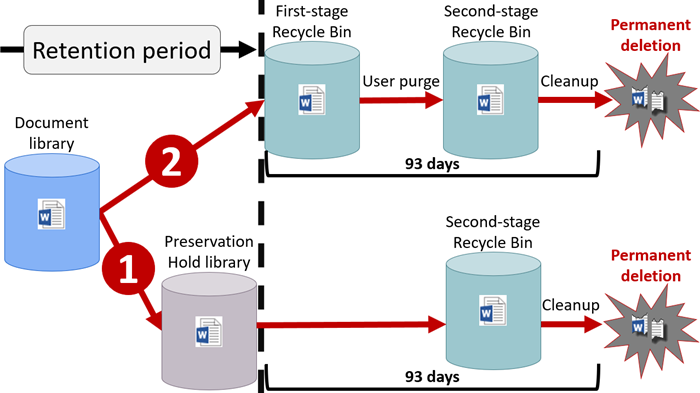
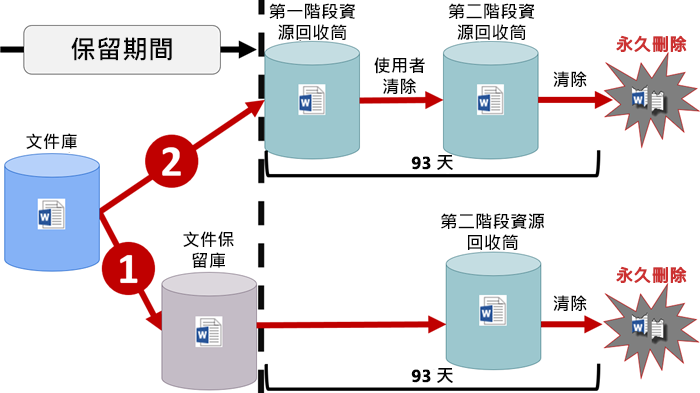
commit translated contents

diff --git a/SecurityCompliance/search-for-and-delete-messages-in-your-organization.md b/SecurityCompliance/search-for-and-delete-messages-in-your-organization.md
@@ -1,12 +1,12 @@
 ---
-title: 搜尋並刪除 Office 365 組織的系統管理說明中的電子郵件
+title: 搜尋並刪除 Office 365 組織中的電子郵件 - 系統管理說明
 ms.author: markjjo
 author: markjjo
 manager: laurawi
 audience: Admin
 ms.topic: article
 ms.service: O365-seccomp
-localization_priority: Normal
+localization_priority: Priority
 ms.collection:
 - Strat_O365_IP
 - M365-security-compliance
@@ -14,44 +14,44 @@ search.appverid:
 - MOE150
 - MET150
 ms.assetid: 3526fd06-b45f-445b-aed4-5ebd37b3762a
-description: 使用搜尋及清除安全性 & 來搜尋並刪除貴組織中的所有信箱的電子郵件訊息的 Office 365 規範中心中的功能。
-ms.openlocfilehash: f654b643a5f1e4feac6e32a67843b2a6a9563bd0
-ms.sourcegitcommit: 9d67cb52544321a430343d39eb336112c1a11d35
-ms.translationtype: MT
+description: 使用 Office365 中之安全性與合規性中心的搜尋和清除功能，可搜尋並刪除組織中所有信箱的電子郵件。
+ms.openlocfilehash: 318a7deeedb6bd4875a7a2ca0f5e33b764bdbac3
+ms.sourcegitcommit: 33c8e9c16143650ca443d73e91631f9180a9268e
+ms.translationtype: HT
 ms.contentlocale: zh-TW
-ms.lasthandoff: 05/17/2019
-ms.locfileid: "34158475"
+ms.lasthandoff: 07/25/2019
+ms.locfileid: "35854627"
 ---
-# <a name="search-for-and-delete-email-messages-in-your-office-365-organization---admin-help"></a>搜尋並刪除 Office 365 組織的系統管理說明中的電子郵件
+# <a name="search-for-and-delete-email-messages-in-your-office-365-organization---admin-help"></a>搜尋並刪除 Office 365 組織中的電子郵件 - 系統管理說明
 
-**本文適用於系統管理員。您試圖尋找您想要刪除的信箱中的項目？請參閱[尋找郵件或在使用立即搜尋的項目](https://support.office.com/article/69748862-5976-47b9-98e8-ed179f1b9e4d)**|
+**本文適用於系統管理員。您正嘗試在信箱中尋找要刪除的項目嗎？請參閱[使用立即搜尋尋找郵件或項目](https://support.office.com/article/69748862-5976-47b9-98e8-ed179f1b9e4d)**|
    
-您可以使用 Office 365 中的 「 內容搜尋 」 功能來搜尋並刪除所有的信箱中的電子郵件訊息，您組織中。 這可協助您尋找並移除可能有害或高風險的電子郵件，例如：
+您可以使用 Office365 中的內容搜尋功能來搜尋並刪除組織中所有信箱的電子郵件。 這可幫助您找出並移除可能有害或高風險的電子郵件，例如：
   
-- 包含危險附件或病毒的郵件
+- 含有危險附件或病毒的郵件
     
 - 網路釣魚郵件
     
 - 包含敏感資料的郵件
     
 > [!CAUTION]
-> 搜尋及清除是一個強大的功能，可讓任何人都被指派來自您組織中的信箱刪除電子郵件訊息的必要權限。 
+> 搜尋和清除是一個強大的功能，可讓獲指派必要權限的任何人刪除組織信箱的電子郵件。 
   
 ## <a name="before-you-begin"></a>開始之前
 
-- 若要建立並執行內容搜尋，您必須是 「 **eDiscovery 管理員**」 角色群組的成員，或被指派 「**符合性搜尋**管理 」 角色。 若要刪除的郵件，您必須是 「**組織管理**」 角色群組的成員，或是獲指派 「**搜尋及清除**的管理角色。 如需將使用者新增至角色群組的詳細資訊，請參閱[讓使用者能夠存取安全性與合規性中心](grant-access-to-the-security-and-compliance-center.md)。
+- 若要建立和執行內容搜尋，您必須是「eDiscovery 管理員」**** 角色群組的成員，或者獲指派「合規性搜尋」**** 管理角色。 若要刪除郵件，您必須是「組織管理」**** 角色群組的成員，或者獲指派「搜尋及清除」**** 管理角色。 如需新增使用者至角色群組的詳細資訊，請參閱[讓使用者能夠存取 Office 365 安全性與合規性中心](grant-access-to-the-security-and-compliance-center.md) (機器翻譯)。
     
-- 您必須使用安全性 & 合規性中心 PowerShell 來刪除郵件。 如需如何連線指示，請參閱[步驟 2](#step-2-connect-to-security--compliance-center-powershell) 。
+- 您必須使用安全性與合規性中心 PowerShell 來刪除郵件。 如需如何連線的相關指示，請參閱[步驟 2](#step-2-connect-to-security--compliance-center-powershell)。
     
-- 每個信箱的 10 個項目最多可以一次移除。 因為搜尋和移除郵件的功能應該是事件回應工具，此限制可以協助確保從信箱快速移除郵件。 這項功能不是用來清除使用者信箱。 若要刪除超過 10 個項目，您可以在 Exchange Online PowerShell 中使用**Search-mailbox DeleteContent**命令。 請參閱[搜尋並刪除郵件-系統管理說明](search-for-and-delete-messagesadmin-help.md)。
+- 每個信箱一次可以移除最多 10 個項目。 因為搜尋和移除郵件的功能應該是事件回應工具，此限制可以協助確保從信箱快速移除郵件。 這項功能不是用來清除使用者信箱。 若要刪除超過 10 個項目，您可以使用 Exchange Online PowerShell 中的 **Search-Mailbox -DeleteContent** 命令。 請參閱[搜尋並刪除郵件 - 系統管理說明](search-for-and-delete-messagesadmin-help.md)。
     
-- 您可以用來執行搜尋刪除的項目，並清除巨集指令在內容搜尋的信箱數目上限為 50000。 如果內容搜尋 （您在[步驟 1](#step-1-create-a-content-search-to-find-the-message-to-delete)中建立） 有超過 50000 個來源信箱，將會失敗的清除動作 （您在步驟 3 中建立）。 請參閱上執行搜尋祕訣[的詳細資訊](#more-information)一節，並清除超過 50000 個信箱上的作業。 
+- 透過搜尋和清除動作，您最多可以在內容搜尋刪除 50,000 個信箱內的項目。 如果內容搜尋 (您在[步驟 1 ](#step-1-create-a-content-search-to-find-the-message-to-delete)中建立) 中有超過 50,000 個來源信箱，則您在步驟 3 中建立的清除動作將失敗。 請參閱[詳細資訊](#more-information)章節以取得搜尋並清除超過 50,000 個信箱的執行提示。 
     
-- 本文中的程序只可以用來刪除 Exchange Online 信箱和公用資料夾中的項目。 您無法使用它來刪除內容從 SharePoint 或 OneDrive for Business 網站。
+- 本文所述的程序只能用於刪除 Exchange Online 信箱和公用資料夾中的項目。 您無法使用這個程序來刪除 SharePoint 或商務用 OneDrive 上的內容。
     
 ## <a name="step-1-create-a-content-search-to-find-the-message-to-delete"></a>步驟 1：建立內容搜尋來尋找要刪除的郵件
 
-第一個步驟是建立和執行內容搜尋，以尋找您想要從組織中的信箱移除的郵件。 使用安全性 & 合規性中心，或執行**New-compliancesearch**和**Start-compliancesearch** cmdlet，您可以建立搜尋。 針對此搜尋將會執行刪除符合查詢的郵件**New-compliancesearchaction-清除**命令在[步驟 3](#step-3-delete-the-message)。 如需建立內容搜尋和設定搜尋查詢的詳細資訊，請參閱下列主題： 
+第一個步驟是建立和執行內容搜尋，以尋找您想要從組織中的信箱移除的郵件。 您可以使用安全性與合規性中心或執行 **New-ComplianceSearch** 以及 **Start-ComplianceSearch** Cmdlet 來建立搜尋。 藉由在[步驟 3](#step-3-delete-the-message) 中執行 **New-ComplianceSearchAction -Purge** 命令，會刪除符合此搜尋查詢的郵件。 如需如何建立內容搜尋及設定搜尋查詢的資訊，請參閱下列主題： 
   
 - [Office 365 中的內容搜尋](content-search.md)
     
@@ -62,9 +62,9 @@ ms.locfileid: "34158475"
 - [Start-ComplianceSearch](https://docs.microsoft.com/powershell/module/exchange/policy-and-compliance-content-search/Start-ComplianceSearch)
     
 > [!NOTE]
-> 您在此步驟中建立內容搜尋中搜尋的內容位置不能包含 SharePoint 或 OneDrive for Business 網站。 您可以將用於電子郵件的內容搜尋中包含僅信箱與公用資料夾。 如果內容搜尋中包含的網站，您會收到錯誤，在步驟 3 中執行**New-compliancesearchaction** cmdlet 時即可。 
+> 在此步驟中建立的內容搜尋，其搜尋的內容位置不能包含 SharePoint 或商務用 OneDrive 網站。 您只能在內容搜尋中包含將用於電子郵件的信箱和公用資料夾。 如果內容搜尋包含網站，則在步驟 3 中執行 **New-ComplianceSearchAction ** Cmdlet 時會收到錯誤。 
   
-### <a name="tips-for-finding-messages-to-remove"></a>尋找要移除的郵件的提示
+### <a name="tips-for-finding-messages-to-remove"></a>尋找要移除郵件的提示
 
 搜尋查詢的目標是將搜尋結果縮減為只有您想要移除的郵件。以下是一些提示：
   
@@ -76,7 +76,7 @@ ms.locfileid: "34158475"
     
 - 預覽搜尋結果，以確認內容搜尋僅傳回您想要刪除的郵件。
     
-- 使用搜尋預估統計資料 （顯示於詳細資料窗格的搜尋] 安全性 & 合規性中心或使用[Get-compliancesearch](https://go.microsoft.com/fwlink/p/?LinkId=517934) cmdlet） 來取得結果的總計數。 
+- 使用搜尋預估統計資料 (在安全性與合規性中心的搜尋詳細資料窗格中顯示，或使用 [Get-ComplianceSearch](https://go.microsoft.com/fwlink/p/?LinkId=517934) Cmdlet) 以取得結果總數。 
     
 以下是尋找可疑電子郵件訊息的兩個查詢範例。
   
@@ -92,56 +92,56 @@ ms.locfileid: "34158475"
     (From:chatsuwloginsset12345@outlook.com) AND (Subject:"Update your account information")
     ```
 
-## <a name="step-2-connect-to-security--compliance-center-powershell"></a>步驟 2： 連線到安全性 & 合規性中心 PowerShell
+## <a name="step-2-connect-to-security--compliance-center-powershell"></a>步驟 2︰連線至安全性與合規性中心 PowerShell
 
-下一步是連線至您的組織的安全性 & 合規性中心 PowerShell。 如需逐步指示，請參閱[連線到安全性 & 合規性中心 PowerShell](https://docs.microsoft.com/powershell/exchange/office-365-scc/connect-to-scc-powershell/connect-to-scc-powershell)。
+下一步是將組織連線至安全性與合規性中心 PowerShell。 如需逐步指示，請參閱[連線至安全性與合規性中心 PowerShell](https://docs.microsoft.com/powershell/exchange/office-365-scc/connect-to-scc-powershell/connect-to-scc-powershell)。
   
-如果您的 Office 365 帳戶使用多重要素驗證 (MFA)，或同盟驗證，您無法使用上一個主題上連接到安全性 & 合規性中心 PowerShell 中的指示。 相反地，請參閱主題中的 <<c0>連接到安全性 &amp; 合規性中心 PowerShell 中使用多重要素驗證的指示。
+如果您的 Office 365 帳戶使用多重要素驗證 (MFA) 或同盟驗證，您就無法使用前個主題中的指示來連線至安全性與合規性中心 PowerShell。 您應改為參閱[使用多重要素驗證連線至安全性與合規性中心 PowerShell](https://docs.microsoft.com/powershell/exchange/office-365-scc/connect-to-scc-powershell/mfa-connect-to-scc-powershell) (機器翻譯) 中的指示。
   
-## <a name="step-3-delete-the-message"></a>步驟 3： 刪除郵件
+## <a name="step-3-delete-the-message"></a>步驟 3：刪除郵件
 
-您已建立並精簡內容搜尋來傳回的訊息，您想要移除，並且連線到安全性 & 合規性中心 PowerShell 之後，最後一個步驟是執行**New-compliancesearchaction** cmdlet 來刪除郵件。 您可以虛-或實刪除郵件。 虛刪除的郵件會移至使用者的 [可復原的項目] 資料夾，並保留已刪除的項目保留期間到期之前。 實刪除的郵件標示為永久移除信箱，並將會永久移除受管理的資料夾助理員處理信箱時的下一個時間。 如果信箱已啟用單一項目復原，已刪除的項目保留期間到期後，將會永久移除實刪除的項目。 如果信箱處於保留狀態，已刪除的郵件會保留直到項目的保留期間到期或從信箱移除保留為止。
+在您建立內容搜尋並進行調整以傳回您想要移除的郵件，並且連線至安全性與合規性 PowerShell 之後，最後一步是執行 **New-ComplianceSearchAction** Cmdlet 來刪除郵件。 您可以虛刪除或實刪除郵件。 虛刪除的郵件會移至使用者的 [可復原的項目] 資料夾並保留，直到刪除項目的保留期限到期為止。 實刪除的郵件則會在信箱中標示為永久移除，並在受管理的資料夾助理員下次處理信箱時將其永久移除。 如果信箱啟用了單一項目復原，則會在刪除項目的保留期限到期後，永久刪除實刪除的項目。 如果信箱處於保留狀態，則會保留已刪除的郵件，直到該郵件的保留期限到期或從信箱移除保留為止。
   
-在下列範例中，命令將虛刪除名為 「 移除網路釣魚郵件 」 的內容搜尋所傳回的搜尋結果。 
+在下列範例中，命令將會虛刪除名為「移除網路釣魚郵件」的內容搜尋所傳回的搜尋結果。 
 
 ```
 New-ComplianceSearchAction -SearchName "Remove Phishing Message" -Purge -PurgeType SoftDelete
 ```
 
-若要實刪除 「 移除網路釣魚郵件 」 的內容搜尋所傳回的項目，您會執行此命令：
+若要實刪除「移除網路釣魚郵件」內容搜尋所傳回的項目，您可以執行下列命令：
 
 ```
 New-ComplianceSearchAction -SearchName "Remove Phishing Message" -Purge -PurgeType HardDelete
 ```
 
-請注意，當您執行上述命令虛-或實刪除的郵件， *SearchName*參數所指定的搜尋您在步驟 1 中建立內容搜尋。 
+請注意，當您執行上述命令來虛刪除或實刪除郵件時，*SearchName* 參數指定的搜尋是您在步驟 1 建立的內容搜尋。 
   
-如需詳細資訊，請參閱 < <b0>New-compliancesearchaction</b0>。
+如需詳細資訊，請參閱 [New-ComplianceSearchAction](https://docs.microsoft.com/powershell/module/exchange/policy-and-compliance-content-search/New-ComplianceSearchAction)。
 
 ## <a name="more-information"></a>詳細資訊
 
-- **您該如何取得搜尋狀態和移除作業？**
+- **如何取得搜尋和移除作業的狀態？**
 
-    執行 **Get-ComplianceSearchAction** 以取得刪除作業的狀態。 請注意，當您執行**New-compliancesearchaction** cmdlet 時建立的物件名為使用此格式： `<name of Content Search>_Purge`。 
+    執行 **Get-ComplianceSearchAction** 可取得刪除作業的狀態。 請注意，當您執行 **New-ComplianceSearchAction** Cmdlet 時所建立的物件會使用下列格式命名：`<name of Content Search>_Purge`。 
     
-- **刪除郵件之後會發生什麼事？**
+- **刪除郵件後，會發生什麼情況？**
 
-   與已刪除的郵件`New-ComplianceSearchAction -Purge -PurgeType HardDelete`命令移至 [清除] 資料夾，並無法供使用者存取。 將郵件移至 [清除] 資料夾之後，郵件會保留已刪除的項目保留期間的持續期間，如果信箱已啟用單一項目復原。 （在 Office 365 中，單一項目復原是預設啟用時建立新的信箱。）已刪除的項目保留期間到期之後，郵件會標示為永久刪除，並會從 Office 365 清除受管理的資料夾助理員處理信箱時的下一個時間。 
+   使用 `New-ComplianceSearchAction -Purge -PurgeType HardDelete` 命令刪除的郵件將被移至 [清除] 資料夾，且使用者無法再存取此郵件。 郵件移至 [清除] 資料夾後，如果已針對信箱啟用單一項目復原，則會根據刪除項目的保留期限來保留郵件。 (在 Office 365 中，建立新信箱時即會預設啟用單一項目復原。) 刪除項目的保留期限到期後，郵件將標示為永久刪除，並在受管理的資料夾助理員下次處理信箱時將其從 Office 365 永久清除。 
 
-   如果您使用`New-ComplianceSearchAction -Purge -PurgeType SoftDelete`命令，郵件會移至使用者的 [可復原的項目] 資料夾中的 [刪除] 資料夾。 它不是立即清除從 Office 365。 使用者可以根據為信箱設定的刪除項目保留期間，在持續時間之內復原 [刪除的郵件] 資料夾中的郵件。 此保留期間到期 (或者如果使用者在到期之前清除郵件) 之後，郵件會移至 [清除] 資料夾且使用者無法再存取。 一次中 [清除] 資料夾中，郵件會保留期間根據對信箱設定，如果信箱已啟用單一項目復原已刪除的項目保留期間。 （在 Office 365 中，單一項目復原是預設啟用時建立新的信箱。）已刪除的項目保留期間到期之後，郵件會標示為永久刪除，並會從 Office 365 清除受管理的資料夾助理員處理信箱時的下一個時間。 
+   如果您使用 `New-ComplianceSearchAction -Purge -PurgeType SoftDelete` 命令，郵件會移至使用者 [可復原的項目] 資料夾中的 [刪除] 資料夾。 它不會立即從 Office365 中清除。 使用者可以根據為信箱設定的刪除項目保留期間，在持續時間之內復原 [刪除的郵件] 資料夾中的郵件。 此保留期間到期 (或者如果使用者在到期之前清除郵件) 之後，郵件會移至 [清除] 資料夾且使用者無法再存取。 郵件位在 [清除] 資料夾後，如果已針對信箱啟用單一項目復原，則會根據為信箱設定的刪除項目的保留期限來保留郵件。 (在 Office 365 中，建立新信箱時即會預設啟用單一項目復原。) 刪除項目的保留期限到期後，郵件將標示為永久刪除，並在受管理的資料夾助理員下次處理信箱時將其從 Office 365 永久清除。 
     
-- **如果您有超過 50000 個信箱刪除郵件？**
+- **如果要從 50,000 個以上的信箱刪除郵件，該怎麼辦？**
 
-    如先前所述，您可以執行搜尋，並清除作業最多 50000 個信箱。 如果您必須執行搜尋及清除超過 50000 個信箱上的作業，請考慮建立暫存的搜尋權限篩選器，會降低會搜尋以少於 50000 個信箱的信箱數目。 例如，如果您的組織中包含不同部門、 狀態或國家/地區中的信箱，您可以建立下列其中一個組織中搜尋信箱子集這些信箱內容為基礎的信箱搜尋權限篩選器。 建立搜尋權限篩選器之後，您應建立搜尋 （在步驟 1 中所述），然後再刪除的郵件，（在步驟 3 中所述）。 然後您可以編輯搜尋及清除一組不同的信箱中的郵件篩選器。 如需建立搜尋權限篩選器的詳細資訊，請參閱 <<c0>設定的權限篩選內容搜尋。
+    如先前所述，您可以針對最多 50,000 個信箱執行搜尋和清除作業。 如果必須對超過 50,000 個信箱執行搜尋和清除作業，請考慮建立臨時搜尋權限篩選條件，以便將搜尋到的信箱數減少為小於 50,000 個信箱。 例如，如果您的組織包含不同部門、州或國家/地區的信箱，則可以基於其中一個信箱屬性建立信箱搜尋權限篩選條件，以搜尋組織中的信箱子集。 建立搜尋權限篩選條件後，您可以建立搜尋 (如步驟 1 所述)，然後再刪除郵件 (如步驟 3 所述)。 您可以編輯篩選條件來搜尋及清除不同組信箱中的郵件。 如需建立搜尋權限篩選條件的詳細資訊，請參閱[設定內容搜尋的權限篩選](permissions-filtering-for-content-search.md) (機器翻譯)。
     
-- **會刪除包含在搜尋結果中的未編製索引項目？**
+- **搜尋結果中包含的未索引項目是否會被刪除？**
 
-    否，' New-compliancesearchaction-清除命令不會刪除未編製索引的項目。 
+    不會，`New-ComplianceSearchAction -Purge 命令不會刪除未索引的項目。 
     
-- **如果從已處於就地保留或訴訟暫止狀態或指派給 Office 365 保留原則的信箱刪除郵件，會發生什麼事？**
+- **如果將已放置在就地保留或訴訟資料暫留的信箱中的郵件刪除，或將郵件指派給 Office 365 保留原則，會發生什麼情況？**
 
-    會清除郵件，並將其移至 [清除] 資料夾之後，郵件會保留直到保留期間到期為止。 如果保留期間是無限，則會保留項目直到移除保留或變更保留持續時間為止。
+    清除郵件並將其移動到 [清除] 資料夾後，郵件會保留，直到保留期限到期為止。 如果保留期限無限制，則項目會保留到移除保留或變更保留期限為止。
     
-- **原因是搜尋並移除除以不同的安全性與合規性中心角色群組之間的工作流程？**
+- **為何搜尋和移除工作流程在不同的安全性與合規性中心角色群組之間是分開的？**
 
     如先前所述，使用者必須是「eDiscovery 管理員」角色群組的成員，或者獲指派「符合性搜尋」管理角色才能搜尋信箱。 若要刪除郵件，該人員必須是「組織管理」角色群組的成員，或者獲指派「搜尋及清除」管理角色。 這樣就可以控制誰能夠在組織中搜尋信箱以及誰能夠刪除郵件。 
